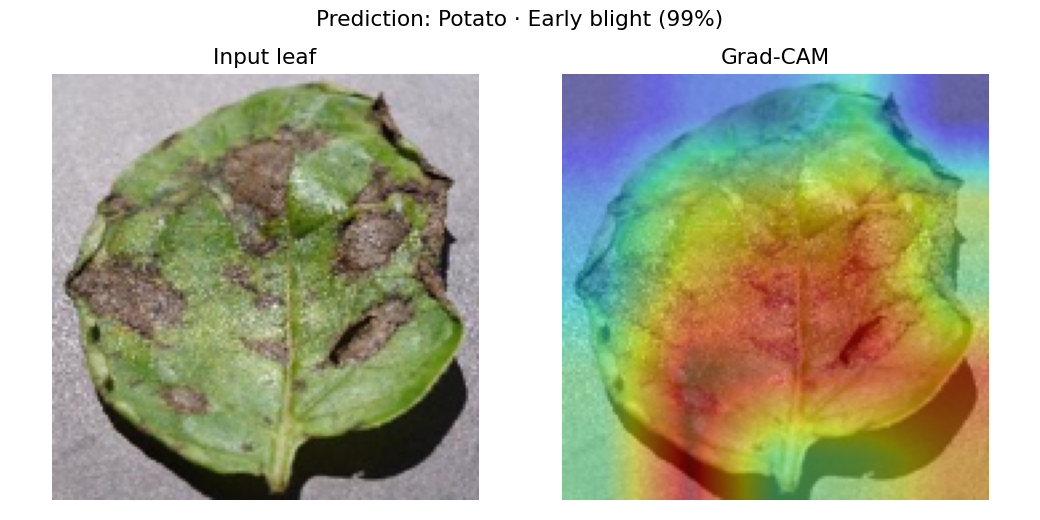
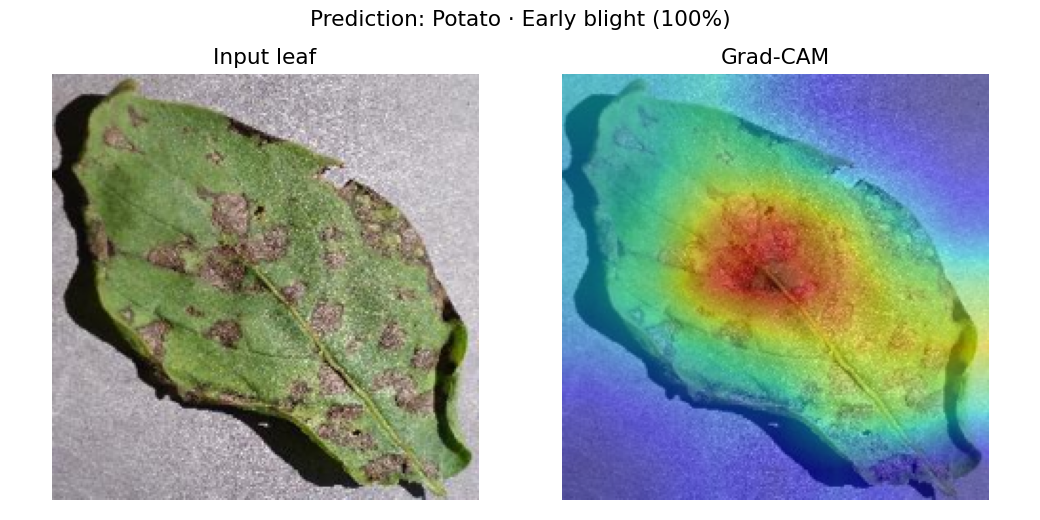
Boost accuracy to 0.97 (EfficientNet-B0), explain labels/values in UI

diff --git a/app/streamlit_app.py b/app/streamlit_app.py
@@ -24,6 +24,25 @@ from src.inference import gradcam_overlay, load_model, predict  # noqa: E402
 
 SAMPLES_DIR = ROOT / "samples"
 
+# Plain-language description of every class the model can predict.
+CLASS_INFO = {
+    "Apple · Apple scab": "Fungal disease (*Venturia inaequalis*): olive-green to "
+    "black scabby spots on leaves and fruit.",
+    "Apple · healthy": "A healthy apple leaf — no disease detected.",
+    "Potato · Early blight": "Fungal disease (*Alternaria solani*): brown spots "
+    "with concentric 'target' rings, usually on older leaves.",
+    "Potato · Late blight": "Serious disease (*Phytophthora infestans*): dark, "
+    "water-soaked blotches — the same pathogen behind the Irish potato famine.",
+    "Potato · healthy": "A healthy potato leaf — no disease detected.",
+    "Tomato · Early blight": "Fungal disease (*Alternaria*): dark concentric-ring "
+    "spots, typically starting on the lower leaves.",
+    "Tomato · Late blight": "Aggressive disease (*Phytophthora infestans*): large "
+    "greasy dark lesions that spread very fast.",
+    "Tomato · Leaf Mold": "Fungal disease (*Passalora fulva*): yellow patches on "
+    "top of the leaf and olive mould underneath, in humid conditions.",
+    "Tomato · healthy": "A healthy tomato leaf — no disease detected.",
+}
+
 st.set_page_config(page_title="LeafDoctor", page_icon="🌱", layout="wide")
 
 # --- light cosmetic styling -------------------------------------------------
@@ -153,10 +172,25 @@ st.markdown(
     unsafe_allow_html=True,
 )
 
+st.caption(
+    f"**Confidence** is how sure the model is about **{top['label']}** — "
+    "its estimated probability for that class."
+)
+
 st.markdown("#### Top predictions")
+st.caption(
+    "Each value is the model's probability for that class (all classes sum to "
+    "100%). The bars show the same numbers — a quick view of the runner-ups."
+)
 for p in preds:
     st.write(f"**{p['label']}** — {p['probability']:.1%}")
     st.progress(min(1.0, float(p["probability"])))
+
+with st.expander("🌿 What do these labels mean?"):
+    st.caption("Every class is a crop followed by its condition — healthy or a "
+               "specific disease.")
+    for c in lm.classes:
+        st.markdown(f"- **{c}** — {CLASS_INFO.get(c, 'Plant leaf class.')}")
 
 with st.expander("ℹ️ What is Grad-CAM?"):
     st.write(

diff --git a/README.md b/README.md
@@ -121,15 +121,20 @@ python -m src.train --backbone efficientnet_b0 --unfreeze --epochs 12
 
 ## 📊 Results
 
-Trained on a laptop **CPU** in a few minutes (feature-caching path), on a 9-class
-subset (Tomato / Potato / Apple, healthy + diseased), ~250 images per class:
+Trained on a laptop **CPU** (feature-caching path, no GPU), on a 9-class subset
+(Tomato / Potato / Apple, healthy + diseased):
 
-| Backbone | Mode | Val accuracy |
-|---|---|---|
-| MobileNetV3-Small | light (frozen) | **0.91** |
-| EfficientNet-B0 | fine-tuned (GPU) | _try on Colab for higher_ |
+| Backbone | Mode | Images/class | Val accuracy |
+|---|---|---|---|
+| MobileNetV3-Small | frozen, 160px | 250 | 0.91 |
+| EfficientNet-B0 | frozen, 224px | 500 | **0.97** |
 
-Reproduce with `python -m src.get_data --per-class 250 && python -m src.train`.
+Reproduce the best run:
+```bash
+python -m src.get_data --per-class 500
+python -m src.train --backbone efficientnet_b0 --img-size 224 --per-class-cap 500 --epochs 80
+```
+Full fine-tuning (`--unfreeze`) on a GPU can push it even higher.
 
 **Grad-CAM** — the heatmap lands right on the diseased lesions:
 